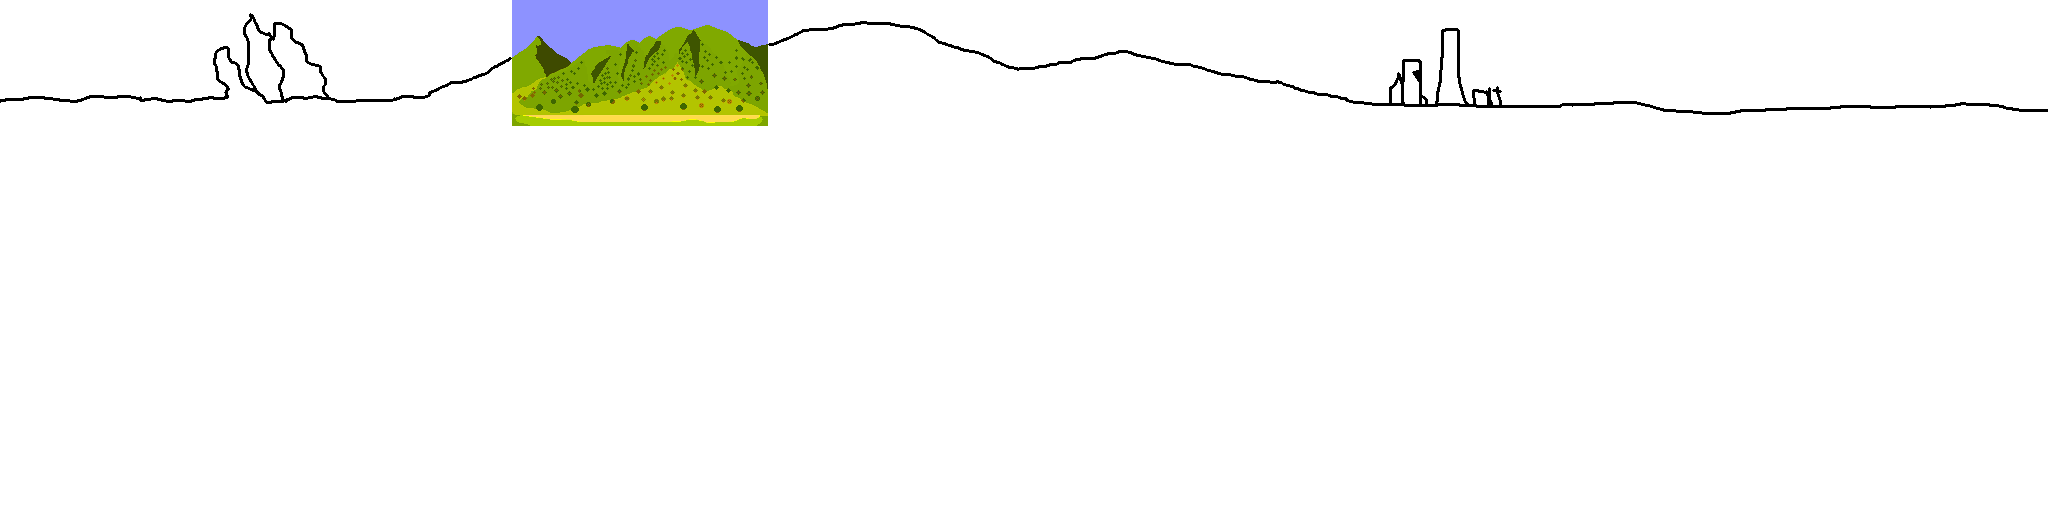
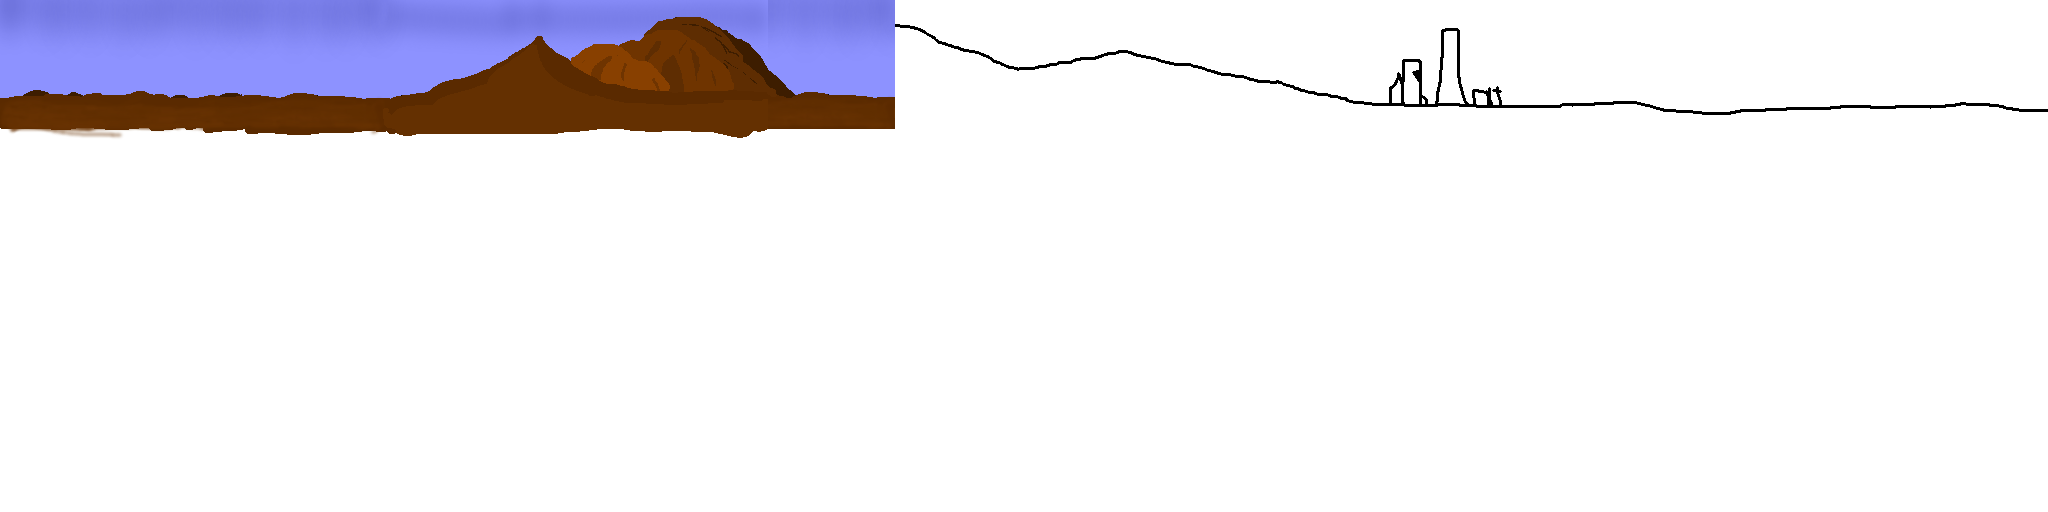
Se modifico el background. Se modificaron las dimensiones de las ventanas de background para que las transiciones se vean mejor.

Changed region(s): [[0.0, 0.0, 0.4375, 0.2812]]

diff --git a/app/src/main/java/com/jgame/game/GameRenderer.java b/app/src/main/java/com/jgame/game/GameRenderer.java
@@ -50,6 +50,7 @@ public class GameRenderer implements Renderer {
     }
 
     class Background {
+        private final int NUMBER_OF_BACKGROUNDS = 2;
         private final float BACKGROUND_TILE_WIDTH = GameActivity.FRUSTUM_WIDTH / 2;
         private final float BACKGROUND_TILE_HEIGHT = GameActivity.PLAYING_HEIGHT - GameActivity.CONTROLS_HEIGHT;
         private final float SCREEN_EDGE = BACKGROUND_TILE_WIDTH * 2;
@@ -57,11 +58,11 @@ public class GameRenderer implements Renderer {
         private final float BACKGROUND_X_POSITION_2 = BACKGROUND_TILE_WIDTH;
         private final float BACKGROUND_X_POSITION_3 = BACKGROUND_TILE_WIDTH*2;
         private final Square backgroundContainer1 = new Square(new Vector2(BACKGROUND_X_POSITION_1, GameActivity.CONTROLS_HEIGHT),
-                BACKGROUND_TILE_WIDTH, BACKGROUND_TILE_HEIGHT, 0);
+                BACKGROUND_TILE_WIDTH + 1, BACKGROUND_TILE_HEIGHT, 0);
         private final Square backgroundContainer2 = new Square(new Vector2(BACKGROUND_X_POSITION_2, GameActivity.CONTROLS_HEIGHT),
-                BACKGROUND_TILE_WIDTH, BACKGROUND_TILE_HEIGHT, 0);
+                BACKGROUND_TILE_WIDTH + 1, BACKGROUND_TILE_HEIGHT, 0);
         private final Square backgroundContainer3 = new Square(new Vector2(BACKGROUND_X_POSITION_3, GameActivity.CONTROLS_HEIGHT),
-                BACKGROUND_TILE_WIDTH, BACKGROUND_TILE_HEIGHT, 0);
+                BACKGROUND_TILE_WIDTH + 1, BACKGROUND_TILE_HEIGHT, 0);
         public TextureData tData1;
         public TextureData tData2;
         public TextureData tData3;
@@ -72,11 +73,11 @@ public class GameRenderer implements Renderer {
 
         public Background(Vector2 scrollSpeed){
             TextureData[] i1 = new TextureData[]{new TextureData(0,0,0.0625f,0.25f), new TextureData(0.0625f,0,0.125f,0.25f), new TextureData(0.125f,0,0.1875f,0.25f)};
-            TextureData[] i2 = new TextureData[]{new TextureData(0.75f,0,0.8125f,0.25f), new TextureData(0.8125f,0,0.875f,0.25f),
-                    new TextureData(0.875f,0,0.9375f,0.25f), new TextureData(0.9375f,0,1,0.25f)};
-            windows = new BackgroundWindow[2];
-            windows[0] = new BackgroundWindow(i2);
-            windows[1] = new BackgroundWindow(i1);
+            TextureData[] i2 = new TextureData[]{new TextureData(0.1875f,0,0.25f,0.25f), new TextureData(0.25f,0,0.3125f,0.25f),
+                    new TextureData(0.3125f,0,0.375f,0.25f), new TextureData(0.375f,0,0.4375f,0.25f)};
+            windows = new BackgroundWindow[NUMBER_OF_BACKGROUNDS];
+            windows[0] = new BackgroundWindow(i1);
+            windows[1] = new BackgroundWindow(i2);
             updateWindows();
             this.scrollSpeed = scrollSpeed;
             //Esto asume que la primer ventana tiene minimo 3 texturas
@@ -86,7 +87,7 @@ public class GameRenderer implements Renderer {
         }
 
         private void updateWindows(){
-            int n = r.nextInt(2);
+            int n = r.nextInt(NUMBER_OF_BACKGROUNDS);
             currentWindow = windows[n];
             currentWindow.reset();
         }
